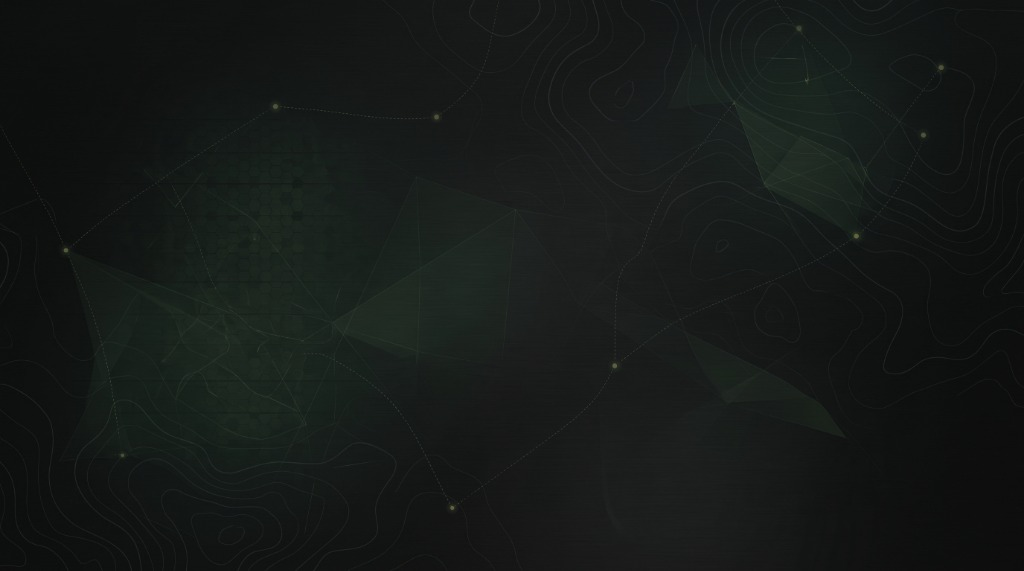
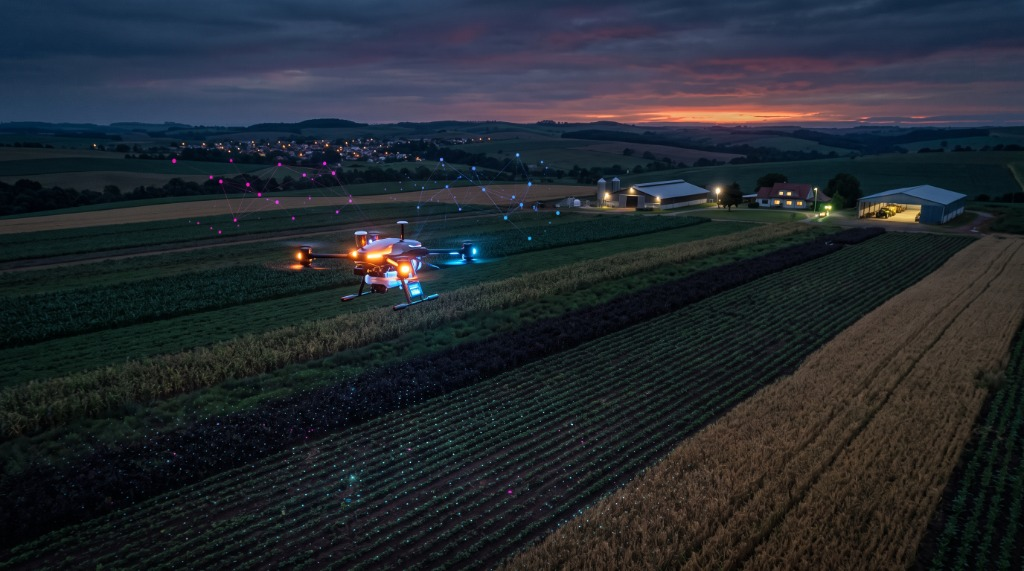
style: atualiza imagem de fundo tech e estende ela para a tela de selecao de fazenda

diff --git a/app.py b/app.py
@@ -17,8 +17,7 @@ from components.header import render_sidebar, render_page_header
 st.set_page_config(page_title="OmniCrop AI - Inteligência Agronômica", page_icon="assets/logo.jpg", layout="wide",
                    initial_sidebar_state="expanded")
 
-is_login = 'user' not in st.session_state or not st.session_state['user']
-inject_css(is_login=is_login)
+
 
 # -- CAPTURA DE CALLBACK DO SUPABASE (EMAIL CONFIRMATION PKCE) --
 if 'code' in st.query_params:
